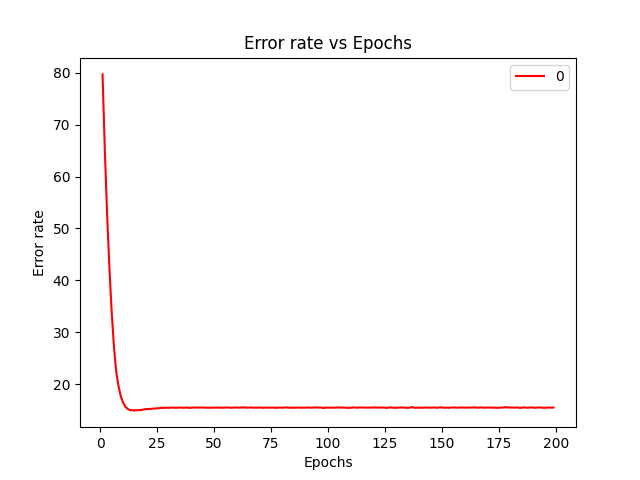
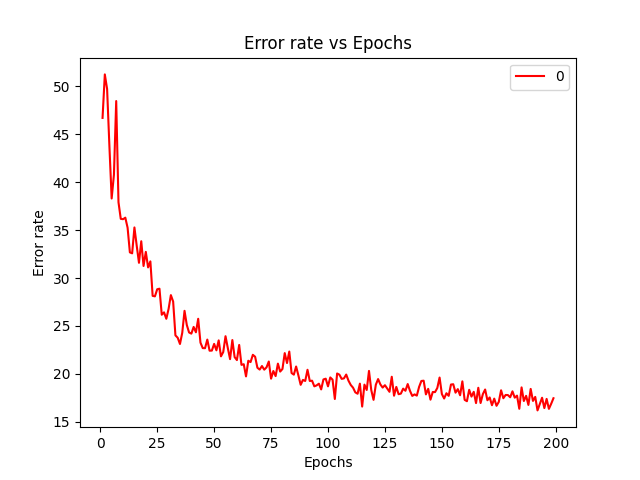
a

diff --git a/CNN_Recurrent_classifier.py b/CNN_Recurrent_classifier.py
@@ -458,28 +458,28 @@ for hidden in range(max_hidden_num):
 
 
         # # CNN R
-      #  def forward(self, x):
-      #      x = self.layer_1(x) 
-     #       x = self.layer_2(x)
-        #     for i in range(self.hidden_layer):
-        #         x = self.layer_hidden(x)
-      #      x = self.layer_3(x)
-      #      x = self.layer_4(x)
-      #      x = x.view(x.size(0), -1)
-      #      x = self.layer_5(x)
-      #      return x
-
-        ## CNN-LSTM
-        def forward(self,x):
+        def forward(self, x):
             x = self.layer_1(x) 
             x = self.layer_2(x)
+        #     for i in range(self.hidden_layer):
+        #         x = self.layer_hidden(x)
             x = self.layer_3(x)
             x = self.layer_4(x)
-           # x = x.permute(0, 2, 1)
-            x, _ = self.LSTM(x)
-            x = self.fc(x)
-            x = x[:, -1, :]
+            x = x.view(x.size(0), -1)
+            x = self.layer_5(x)
             return x
+
+        ## CNN-LSTM
+#        def forward(self,x):
+#            x = self.layer_1(x) 
+#            x = self.layer_2(x)
+#            x = self.layer_3(x)
+#            x = self.layer_4(x)
+           # x = x.permute(0, 2, 1)
+#            x, _ = self.LSTM(x)
+#            x = self.fc(x)
+#            x = x[:, -1, :]
+#            return x
 
 
 
